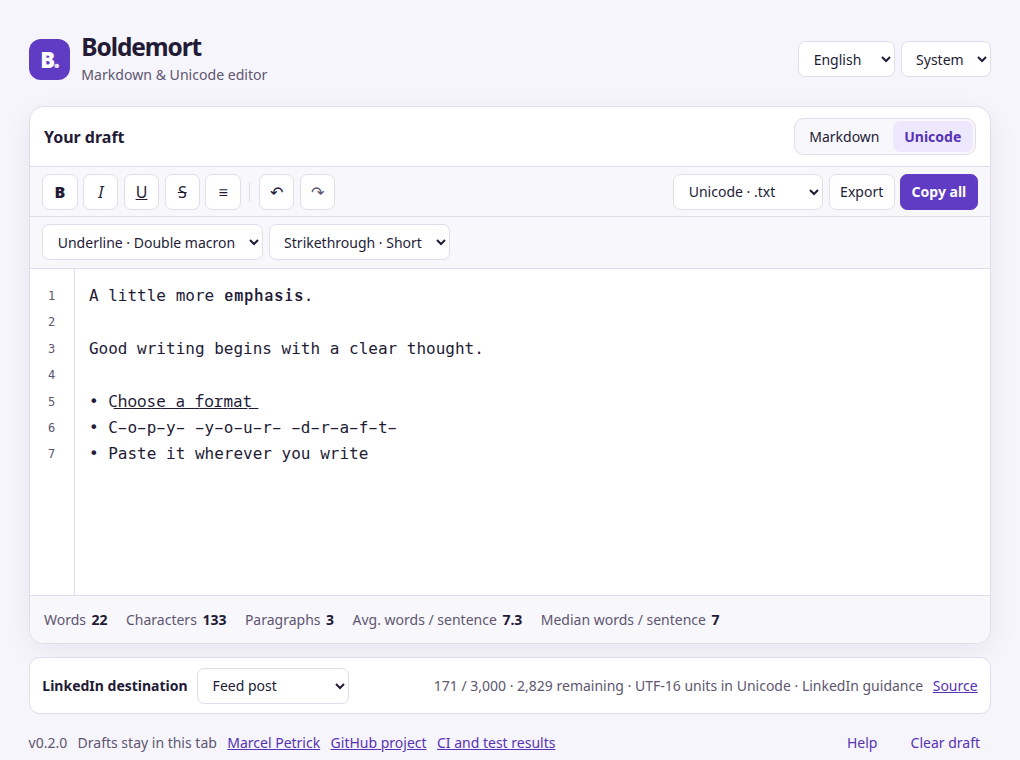
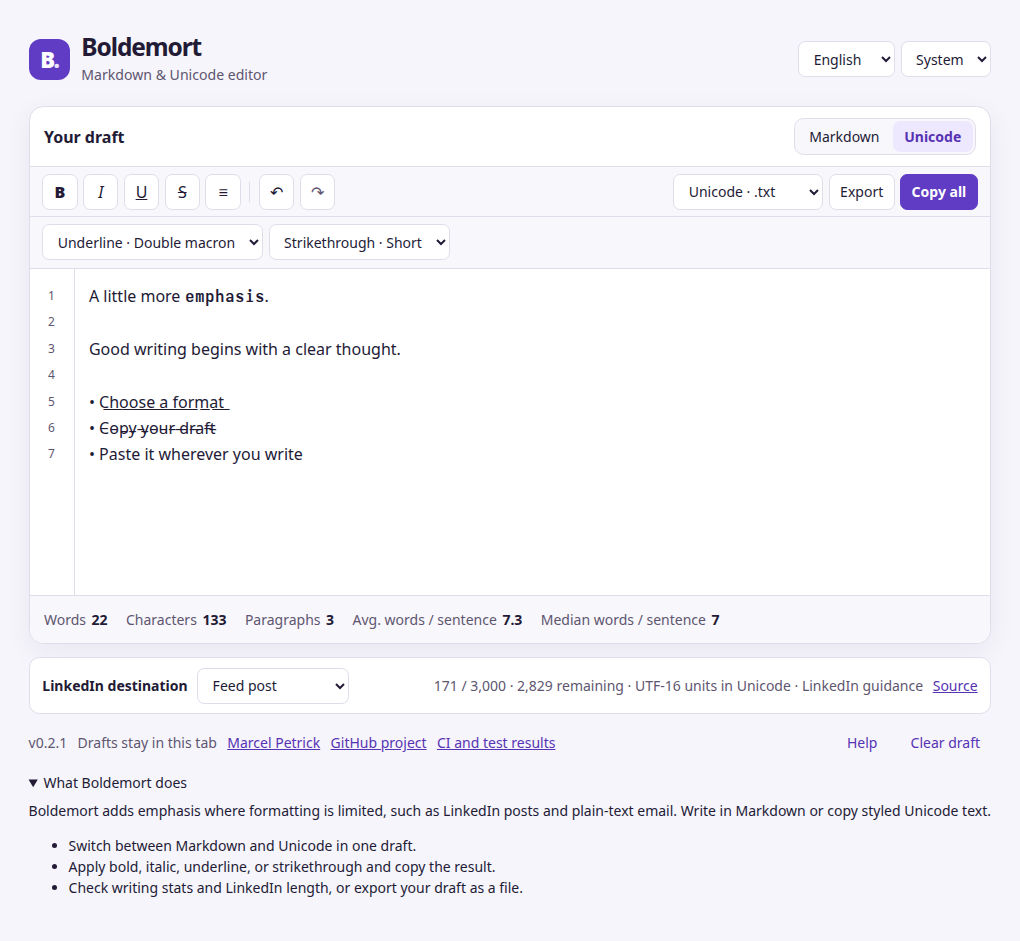
fix: render Unicode strokes over their base letters

diff --git a/tests/editor.spec.ts b/tests/editor.spec.ts
@@ -336,6 +336,7 @@ test('copies the selected Unicode line variants and links to project and tests',
     });
   });
   const draft = page.locator('#editor');
+  await expect(draft).toHaveCSS('font-family', /system-ui/u);
   await page.locator('#strike-style').selectOption('tilde');
   await draft.fill('a b');
   await draft.press('Control+a');
@@ -347,6 +348,7 @@ test('copies the selected Unicode line variants and links to project and tests',
   await expect(page.locator('body')).toHaveAttribute('data-clipboard', 'a̴ ̴b̴');
   await page.getByRole('button', { name: 'Markdown', exact: true }).click();
   await expect(draft).toHaveValue('~~a b~~');
+  await expect(draft).toHaveCSS('font-family', /ui-monospace/u);
 
   await page.locator('#underline-style').selectOption('double');
   await draft.fill('<u>a b</u>');

diff --git a/src/style.css b/src/style.css
@@ -263,13 +263,17 @@ button[aria-pressed='true'] {
 .editor-shell {
   --gutter: 2.75rem;
   --editor-pad: 0.9rem;
-  --editor-font: 1rem/1.65 ui-monospace, 'DejaVu Sans Mono', monospace;
+  --editor-font: 1rem/1.65 system-ui, sans-serif;
 
   position: relative;
   flex: 1 0 auto;
   display: flex;
   min-height: clamp(10rem, 43vh, 42rem);
   background: var(--surface);
+}
+
+.writing-card:has([data-mode='markdown'][aria-pressed='true']) .editor-shell {
+  --editor-font: 1rem/1.65 ui-monospace, monospace;
 }
 
 #gutter {

diff --git a/README.md b/README.md
@@ -3,7 +3,7 @@
 [![CI](https://github.com/marcelpetrick/Boldemort/actions/workflows/ci.yml/badge.svg?branch=main)](https://github.com/marcelpetrick/Boldemort/actions/workflows/ci.yml)
 [![GitHub Pages](https://github.com/marcelpetrick/Boldemort/actions/workflows/pages.yml/badge.svg)](https://github.com/marcelpetrick/Boldemort/actions/workflows/pages.yml)
 [![Release pipeline](https://github.com/marcelpetrick/Boldemort/actions/workflows/release.yml/badge.svg)](https://github.com/marcelpetrick/Boldemort/actions/workflows/release.yml)
-[![Version 0.2.0](https://img.shields.io/badge/version-0.2.0-6241c2)](docs/CHANGELOG.md)
+[![Version 0.2.1](https://img.shields.io/badge/version-0.2.1-6241c2)](docs/CHANGELOG.md)
 [![License GPL v3 or later](https://img.shields.io/badge/license-GPLv3%20or%20later-blue.svg)](LICENSE)
 [![TypeScript](https://img.shields.io/badge/TypeScript-6-3178c6?logo=typescript&logoColor=white)](https://www.typescriptlang.org/)
 [![Vite](https://img.shields.io/badge/Vite-8-646cff?logo=vite&logoColor=white)](https://vite.dev/)
@@ -120,7 +120,7 @@ CI triggers Pages deployment. The Pages workflow can also be dispatched for
 the current tip of `main`.
 
 For a release, update the package version and changelog, verify the pipeline,
-then push a matching tag such as `v0.2.0` from `main`. The release workflow
+then push a matching tag such as `v0.2.1` from `main`. The release workflow
 reruns local verification, packages the static site with licensing information,
 and publishes a SHA-256 checksum alongside the archive. Dispatch the Release
 workflow on `main` to verify and download the archive from Actions without

diff --git a/vision.md b/vision.md
@@ -204,7 +204,8 @@ A suitable approach is to keep an internal **loss-preserving document model** th
   double macron. Decorative under-shapes are outside the line controls.
 - Offer independent choices in the editor. Applying them writes one selected
   combining mark per supported grapheme, including inter-word spaces.
-  Tabs and line breaks retain their original bytes.
+  Tabs and line breaks retain their original bytes. Verify that the editor
+  font renders strike marks over their base letters in Unicode mode.
 - Recognize older and pasted line variants. Toggling off removes the selected
   style and preserves the other style, accents, and emoji. Existing styled
   text keeps its Unicode spelling when changing a choice. Convert supported

diff --git a/docs/PLAN.md b/docs/PLAN.md
@@ -44,3 +44,6 @@
   alternatives, and round-trip acceptance in the vision. Verify exact
   clipboard bytes, pasted variants, and the editor’s help and project links
   before publishing to GitHub Pages.
+- Compared fonts against the actual Unicode output. Use the system UI font
+  in Unicode mode so stroke overlays render through letters. Test the font
+  switch and retain monospace in Markdown mode.

diff --git a/docs/CHANGELOG.md b/docs/CHANGELOG.md
@@ -1,5 +1,9 @@
 # Changelog
 
+## 0.2.1
+
+- Switched the Unicode editor font so short strikes overlay their letters.
+
 ## 0.2.0
 
 - Added three Unicode underline and three strikethrough choices.
